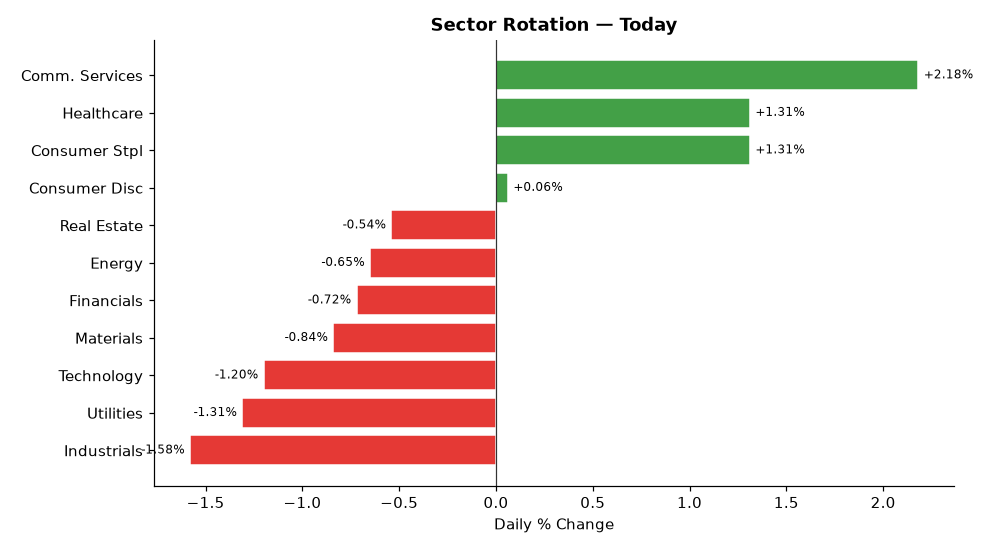
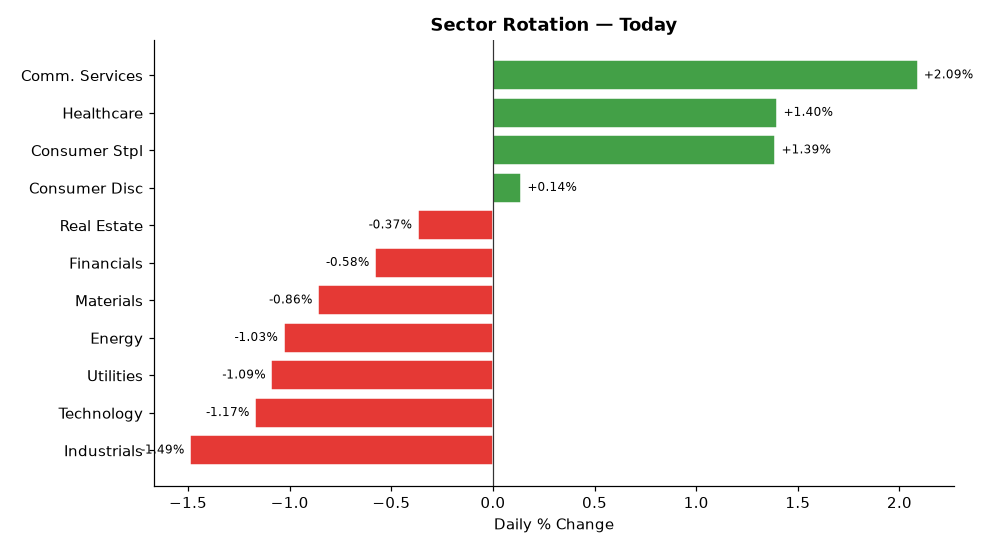
deploy: b7fadf5b06deb90e7ebb92f278722414bdd9750d

diff --git a/index.html b/index.html
@@ -4,7 +4,7 @@
   <meta charset="UTF-8">
   <meta name="viewport" content="width=device-width,initial-scale=1">
   <meta http-equiv="Cache-Control" content="no-cache,no-store,must-revalidate">
-  <title>Stock Breakout Screener — 2026-09-14 18:19</title>
+  <title>Stock Breakout Screener — 2026-09-14 18:46</title>
   <style>
     *{box-sizing:border-box;margin:0;padding:0}
     body{font-family:'Segoe UI',Arial,sans-serif;background:#f0f2f5;
@@ -34,7 +34,7 @@
 
 <div class="hdr">
   <h1>📈 Stock Breakout Screener</h1>
-  <p>Updated: 2026-09-14 18:19 UTC &nbsp;·&nbsp; Phase: Regular Market Hours &nbsp;·&nbsp;
+  <p>Updated: 2026-09-14 18:46 UTC &nbsp;·&nbsp; Phase: Regular Market Hours &nbsp;·&nbsp;
      129 stocks screened &nbsp;·&nbsp; Top 5 by conviction score</p>
 </div>
 
@@ -69,7 +69,7 @@
             </span>
           </div>
           <ul style="margin:0;padding-left:18px;font-size:13px;
-                     color:#333;line-height:1.8"><li style="margin:5px 0"><span style="background:#ffebee;color:#b71c1c;padding:2px 7px;border-radius:4px;font-size:11px;">❌</span> Volume: <b>0.3× average</b> — Above-average activity</li><li style="margin:5px 0"><span style="background:#e8f5e9;color:#2e7d32;padding:2px 7px;border-radius:4px;font-size:11px;">✅</span> Candle: close <b>$181.01</b> vs open <b>$170.78</b> (+6.0%) — regular market close</li><li style="margin:5px 0"><span style="background:#e8f5e9;color:#2e7d32;padding:2px 7px;border-radius:4px;font-size:11px;">✅</span> 200-Day MA: price <b>$181.01</b> vs MA <b>$172.97</b> — <b>✅ Above</b> long-term trend</li><li style="margin:5px 0"><span style="background:#e8f5e9;color:#2e7d32;padding:2px 7px;border-radius:4px;font-size:11px;">✅</span> Inst. ownership: <b>83.1%</b> · MFI: <b>76.5</b> · Market cap: <b>$193.4B</b></li><li style="margin:5px 0"><span style="background:#e8f5e9;color:#2e7d32;padding:2px 7px;border-radius:4px;font-size:11px;">✅</span> Last similar breakout: <b>May 07, 2026</b> → <b>+5.4%</b> over 10 trading days</li></ul>
+                     color:#333;line-height:1.8"><li style="margin:5px 0"><span style="background:#ffebee;color:#b71c1c;padding:2px 7px;border-radius:4px;font-size:11px;">❌</span> Volume: <b>0.4× average</b> — Above-average activity</li><li style="margin:5px 0"><span style="background:#e8f5e9;color:#2e7d32;padding:2px 7px;border-radius:4px;font-size:11px;">✅</span> Candle: close <b>$181.38</b> vs open <b>$170.78</b> (+6.2%) — regular market close</li><li style="margin:5px 0"><span style="background:#e8f5e9;color:#2e7d32;padding:2px 7px;border-radius:4px;font-size:11px;">✅</span> 200-Day MA: price <b>$181.38</b> vs MA <b>$172.97</b> — <b>✅ Above</b> long-term trend</li><li style="margin:5px 0"><span style="background:#e8f5e9;color:#2e7d32;padding:2px 7px;border-radius:4px;font-size:11px;">✅</span> Inst. ownership: <b>83.1%</b> · MFI: <b>76.2</b> · Market cap: <b>$193.7B</b></li><li style="margin:5px 0"><span style="background:#e8f5e9;color:#2e7d32;padding:2px 7px;border-radius:4px;font-size:11px;">✅</span> Last similar breakout: <b>May 07, 2026</b> → <b>+5.4%</b> over 10 trading days</li></ul>
         </div>
         <div style="background:#fff;border:1px solid #ddd;border-radius:10px;
                     padding:16px 20px;margin-bottom:12px;
@@ -86,7 +86,7 @@
             </span>
           </div>
           <ul style="margin:0;padding-left:18px;font-size:13px;
-                     color:#333;line-height:1.8"><li style="margin:5px 0"><span style="background:#ffebee;color:#b71c1c;padding:2px 7px;border-radius:4px;font-size:11px;">❌</span> Volume: <b>0.7× average</b> — Above-average activity</li><li style="margin:5px 0"><span style="background:#ffebee;color:#b71c1c;padding:2px 7px;border-radius:4px;font-size:11px;">❌</span> Candle: close <b>$665.47</b> vs open <b>$657.62</b> (+1.2%) — regular market close</li><li style="margin:5px 0"><span style="background:#e8f5e9;color:#2e7d32;padding:2px 7px;border-radius:4px;font-size:11px;">✅</span> 200-Day MA: price <b>$665.47</b> vs MA <b>$605.07</b> — <b>✅ Above</b> long-term trend</li><li style="margin:5px 0"><span style="background:#e8f5e9;color:#2e7d32;padding:2px 7px;border-radius:4px;font-size:11px;">✅</span> Inst. ownership: <b>79.0%</b> · MFI: <b>75.1</b> · Market cap: <b>$1695.4B</b></li></ul>
+                     color:#333;line-height:1.8"><li style="margin:5px 0"><span style="background:#ffebee;color:#b71c1c;padding:2px 7px;border-radius:4px;font-size:11px;">❌</span> Volume: <b>0.8× average</b> — Above-average activity</li><li style="margin:5px 0"><span style="background:#ffebee;color:#b71c1c;padding:2px 7px;border-radius:4px;font-size:11px;">❌</span> Candle: close <b>$666.14</b> vs open <b>$657.62</b> (+1.3%) — regular market close</li><li style="margin:5px 0"><span style="background:#e8f5e9;color:#2e7d32;padding:2px 7px;border-radius:4px;font-size:11px;">✅</span> 200-Day MA: price <b>$666.14</b> vs MA <b>$605.08</b> — <b>✅ Above</b> long-term trend</li><li style="margin:5px 0"><span style="background:#e8f5e9;color:#2e7d32;padding:2px 7px;border-radius:4px;font-size:11px;">✅</span> Inst. ownership: <b>79.0%</b> · MFI: <b>75.2</b> · Market cap: <b>$1696.8B</b></li></ul>
         </div>
         <div style="background:#fff;border:1px solid #ddd;border-radius:10px;
                     padding:16px 20px;margin-bottom:12px;
@@ -103,7 +103,7 @@
             </span>
           </div>
           <ul style="margin:0;padding-left:18px;font-size:13px;
-                     color:#333;line-height:1.8"><li style="margin:5px 0"><span style="background:#ffebee;color:#b71c1c;padding:2px 7px;border-radius:4px;font-size:11px;">❌</span> Volume: <b>0.3× average</b> — Above-average activity</li><li style="margin:5px 0"><span style="background:#ffebee;color:#b71c1c;padding:2px 7px;border-radius:4px;font-size:11px;">❌</span> Candle: close <b>$51.38</b> vs open <b>$50.94</b> (+0.9%) — regular market close</li><li style="margin:5px 0"><span style="background:#e8f5e9;color:#2e7d32;padding:2px 7px;border-radius:4px;font-size:11px;">✅</span> 200-Day MA: price <b>$51.38</b> vs MA <b>$46.64</b> — <b>✅ Above</b> long-term trend</li><li style="margin:5px 0"><span style="background:#e8f5e9;color:#2e7d32;padding:2px 7px;border-radius:4px;font-size:11px;">✅</span> Inst. ownership: <b>71.2%</b> · MFI: <b>64.9</b> · Market cap: <b>$213.5B</b></li></ul>
+                     color:#333;line-height:1.8"><li style="margin:5px 0"><span style="background:#ffebee;color:#b71c1c;padding:2px 7px;border-radius:4px;font-size:11px;">❌</span> Volume: <b>0.3× average</b> — Above-average activity</li><li style="margin:5px 0"><span style="background:#ffebee;color:#b71c1c;padding:2px 7px;border-radius:4px;font-size:11px;">❌</span> Candle: close <b>$51.40</b> vs open <b>$50.94</b> (+0.9%) — regular market close</li><li style="margin:5px 0"><span style="background:#e8f5e9;color:#2e7d32;padding:2px 7px;border-radius:4px;font-size:11px;">✅</span> 200-Day MA: price <b>$51.40</b> vs MA <b>$46.64</b> — <b>✅ Above</b> long-term trend</li><li style="margin:5px 0"><span style="background:#e8f5e9;color:#2e7d32;padding:2px 7px;border-radius:4px;font-size:11px;">✅</span> Inst. ownership: <b>71.2%</b> · MFI: <b>65.0</b> · Market cap: <b>$213.5B</b></li></ul>
         </div>
         <div style="background:#fff;border:1px solid #ddd;border-radius:10px;
                     padding:16px 20px;margin-bottom:12px;
@@ -120,7 +120,7 @@
             </span>
           </div>
           <ul style="margin:0;padding-left:18px;font-size:13px;
-                     color:#333;line-height:1.8"><li style="margin:5px 0"><span style="background:#ffebee;color:#b71c1c;padding:2px 7px;border-radius:4px;font-size:11px;">❌</span> Volume: <b>0.3× average</b> — Above-average activity</li><li style="margin:5px 0"><span style="background:#ffebee;color:#b71c1c;padding:2px 7px;border-radius:4px;font-size:11px;">❌</span> Candle: close <b>$26.50</b> vs open <b>$26.38</b> (+0.4%) — regular market close</li><li style="margin:5px 0"><span style="background:#e8f5e9;color:#2e7d32;padding:2px 7px;border-radius:4px;font-size:11px;">✅</span> 200-Day MA: price <b>$26.50</b> vs MA <b>$24.51</b> — <b>✅ Above</b> long-term trend</li><li style="margin:5px 0"><span style="background:#e8f5e9;color:#2e7d32;padding:2px 7px;border-radius:4px;font-size:11px;">✅</span> Inst. ownership: <b>68.4%</b> · MFI: <b>61.3</b> · Market cap: <b>$181.6B</b></li></ul>
+                     color:#333;line-height:1.8"><li style="margin:5px 0"><span style="background:#ffebee;color:#b71c1c;padding:2px 7px;border-radius:4px;font-size:11px;">❌</span> Volume: <b>0.4× average</b> — Above-average activity</li><li style="margin:5px 0"><span style="background:#ffebee;color:#b71c1c;padding:2px 7px;border-radius:4px;font-size:11px;">❌</span> Candle: close <b>$26.51</b> vs open <b>$26.38</b> (+0.5%) — regular market close</li><li style="margin:5px 0"><span style="background:#e8f5e9;color:#2e7d32;padding:2px 7px;border-radius:4px;font-size:11px;">✅</span> 200-Day MA: price <b>$26.51</b> vs MA <b>$24.51</b> — <b>✅ Above</b> long-term trend</li><li style="margin:5px 0"><span style="background:#e8f5e9;color:#2e7d32;padding:2px 7px;border-radius:4px;font-size:11px;">✅</span> Inst. ownership: <b>68.4%</b> · MFI: <b>61.4</b> · Market cap: <b>$181.6B</b></li></ul>
         </div>
         <div style="background:#fff;border:1px solid #ddd;border-radius:10px;
                     padding:16px 20px;margin-bottom:12px;
@@ -137,7 +137,7 @@
             </span>
           </div>
           <ul style="margin:0;padding-left:18px;font-size:13px;
-                     color:#333;line-height:1.8"><li style="margin:5px 0"><span style="background:#ffebee;color:#b71c1c;padding:2px 7px;border-radius:4px;font-size:11px;">❌</span> Volume: <b>0.5× average</b> — Above-average activity</li><li style="margin:5px 0"><span style="background:#ffebee;color:#b71c1c;padding:2px 7px;border-radius:4px;font-size:11px;">❌</span> Candle: close <b>$334.21</b> vs open <b>$334.83</b> (-0.2%) — regular market close</li><li style="margin:5px 0"><span style="background:#e8f5e9;color:#2e7d32;padding:2px 7px;border-radius:4px;font-size:11px;">✅</span> 200-Day MA: price <b>$334.21</b> vs MA <b>$295.54</b> — <b>✅ Above</b> long-term trend</li><li style="margin:5px 0"><span style="background:#e8f5e9;color:#2e7d32;padding:2px 7px;border-radius:4px;font-size:11px;">✅</span> Inst. ownership: <b>66.3%</b> · MFI: <b>64.7</b> · Market cap: <b>$4877.3B</b></li><li style="margin:5px 0"><span style="background:#e8f5e9;color:#2e7d32;padding:2px 7px;border-radius:4px;font-size:11px;">✅</span> Last similar breakout: <b>Jun 26, 2026</b> → <b>+11.8%</b> over 10 trading days</li></ul>
+                     color:#333;line-height:1.8"><li style="margin:5px 0"><span style="background:#ffebee;color:#b71c1c;padding:2px 7px;border-radius:4px;font-size:11px;">❌</span> Volume: <b>0.5× average</b> — Above-average activity</li><li style="margin:5px 0"><span style="background:#ffebee;color:#b71c1c;padding:2px 7px;border-radius:4px;font-size:11px;">❌</span> Candle: close <b>$334.50</b> vs open <b>$334.83</b> (-0.1%) — regular market close</li><li style="margin:5px 0"><span style="background:#e8f5e9;color:#2e7d32;padding:2px 7px;border-radius:4px;font-size:11px;">✅</span> 200-Day MA: price <b>$334.50</b> vs MA <b>$295.55</b> — <b>✅ Above</b> long-term trend</li><li style="margin:5px 0"><span style="background:#e8f5e9;color:#2e7d32;padding:2px 7px;border-radius:4px;font-size:11px;">✅</span> Inst. ownership: <b>66.3%</b> · MFI: <b>64.8</b> · Market cap: <b>$4882.4B</b></li><li style="margin:5px 0"><span style="background:#e8f5e9;color:#2e7d32;padding:2px 7px;border-radius:4px;font-size:11px;">✅</span> Last similar breakout: <b>Jun 26, 2026</b> → <b>+11.8%</b> over 10 trading days</li></ul>
         </div>
 
 
@@ -169,17 +169,17 @@
         <tr>
           <td style="font-weight:700;text-align:left;padding-left:10px">
             🟢 QCOM</td>
-          <td style="background:#ffcdd2">0.3×</td>
-          <td style="background:#c8e6c9">+6.0%</td>
+          <td style="background:#ffcdd2">0.4×</td>
+          <td style="background:#c8e6c9">+6.2%</td>
           <td style="background:#c8e6c9">
             ▲ Above</td>
           <td style="background:#c8e6c9">
             83.1%</td>
           <td style="background:#c8e6c9">
-            76.5</td>
+            76.2</td>
           <td style="background:#ffcdd2">Technology</td>
           <td style="background:#c8e6c9">
-            114.2%</td>
+            147.2%</td>
           <td style="background:#c8e6c9">
             +5.4%</td>
           <td style="font-weight:800;font-size:15px">12/17</td>
@@ -187,17 +187,17 @@
         <tr>
           <td style="font-weight:700;text-align:left;padding-left:10px">
             🟡 META</td>
-          <td style="background:#ffcdd2">0.7×</td>
-          <td style="background:#ffcdd2">+1.2%</td>
+          <td style="background:#ffcdd2">0.8×</td>
+          <td style="background:#ffcdd2">+1.3%</td>
           <td style="background:#c8e6c9">
             ▲ Above</td>
           <td style="background:#c8e6c9">
             79.0%</td>
           <td style="background:#c8e6c9">
-            75.1</td>
+            75.2</td>
           <td style="background:#c8e6c9">Comm. Services</td>
           <td style="background:#c8e6c9">
-            91.8%</td>
+            102.0%</td>
           <td style="background:#ffcdd2">
             N/A</td>
           <td style="font-weight:800;font-size:15px">11/17</td>
@@ -212,10 +212,10 @@
           <td style="background:#c8e6c9">
             71.2%</td>
           <td style="background:#c8e6c9">
-            64.9</td>
+            65.0</td>
           <td style="background:#c8e6c9">Comm. Services</td>
           <td style="background:#c8e6c9">
-            96.2%</td>
+            113.7%</td>
           <td style="background:#ffcdd2">
             N/A</td>
           <td style="font-weight:800;font-size:15px">11/17</td>
@@ -223,17 +223,17 @@
         <tr>
           <td style="font-weight:700;text-align:left;padding-left:10px">
             🟡 T</td>
-          <td style="background:#ffcdd2">0.3×</td>
-          <td style="background:#ffcdd2">+0.4%</td>
+          <td style="background:#ffcdd2">0.4×</td>
+          <td style="background:#ffcdd2">+0.5%</td>
           <td style="background:#c8e6c9">
             ▲ Above</td>
           <td style="background:#c8e6c9">
             68.4%</td>
           <td style="background:#c8e6c9">
-            61.3</td>
+            61.4</td>
           <td style="background:#c8e6c9">Comm. Services</td>
           <td style="background:#c8e6c9">
-            107.8%</td>
+            123.3%</td>
           <td style="background:#ffcdd2">
             N/A</td>
           <td style="font-weight:800;font-size:15px">11/17</td>
@@ -242,16 +242,16 @@
           <td style="font-weight:700;text-align:left;padding-left:10px">
             🟡 AAPL</td>
           <td style="background:#ffcdd2">0.5×</td>
-          <td style="background:#ffcdd2">-0.2%</td>
+          <td style="background:#ffcdd2">-0.1%</td>
           <td style="background:#c8e6c9">
             ▲ Above</td>
           <td style="background:#c8e6c9">
             66.3%</td>
           <td style="background:#c8e6c9">
-            64.7</td>
+            64.8</td>
           <td style="background:#ffcdd2">Technology</td>
           <td style="background:#c8e6c9">
-            77.1%</td>
+            98.9%</td>
           <td style="background:#c8e6c9">
             +11.8%</td>
           <td style="font-weight:800;font-size:15px">10/17</td>
@@ -278,57 +278,57 @@
         <tr>
           <td style="text-align:left;padding-left:10px;font-weight:600">
             #1 Comm. Services</td>
-          <td style="background:#e8f5e9;color:#2e7d32;font-weight:700">+2.18%</td>
+          <td style="background:#e8f5e9;color:#2e7d32;font-weight:700">+2.09%</td>
         </tr>
         <tr>
           <td style="text-align:left;padding-left:10px;font-weight:600">
             #2 Healthcare</td>
-          <td style="background:#e8f5e9;color:#2e7d32;font-weight:700">+1.31%</td>
+          <td style="background:#e8f5e9;color:#2e7d32;font-weight:700">+1.40%</td>
         </tr>
         <tr>
           <td style="text-align:left;padding-left:10px;font-weight:600">
             #3 Consumer Stpl</td>
-          <td style="background:#e8f5e9;color:#2e7d32;font-weight:700">+1.31%</td>
+          <td style="background:#e8f5e9;color:#2e7d32;font-weight:700">+1.39%</td>
         </tr>
         <tr>
           <td style="text-align:left;padding-left:10px;font-weight:600">
             #4 Consumer Disc</td>
-          <td style="background:#e8f5e9;color:#2e7d32;font-weight:700">+0.06%</td>
+          <td style="background:#e8f5e9;color:#2e7d32;font-weight:700">+0.14%</td>
         </tr>
         <tr>
           <td style="text-align:left;padding-left:10px;font-weight:600">
             #5 Real Estate</td>
-          <td style="background:#ffebee;color:#c62828;font-weight:700">-0.54%</td>
+          <td style="background:#ffebee;color:#c62828;font-weight:700">-0.37%</td>
         </tr>
         <tr>
           <td style="text-align:left;padding-left:10px;font-weight:600">
-            #6 Energy</td>
-          <td style="background:#ffebee;color:#c62828;font-weight:700">-0.65%</td>
+            #6 Financials</td>
+          <td style="background:#ffebee;color:#c62828;font-weight:700">-0.58%</td>
         </tr>
         <tr>
           <td style="text-align:left;padding-left:10px;font-weight:600">
-            #7 Financials</td>
-          <td style="background:#ffebee;color:#c62828;font-weight:700">-0.72%</td>
+            #7 Materials</td>
+          <td style="background:#ffebee;color:#c62828;font-weight:700">-0.86%</td>
         </tr>
         <tr>
           <td style="text-align:left;padding-left:10px;font-weight:600">
-            #8 Materials</td>
-          <td style="background:#ffebee;color:#c62828;font-weight:700">-0.84%</td>
+            #8 Energy</td>
+          <td style="background:#ffebee;color:#c62828;font-weight:700">-1.03%</td>
         </tr>
         <tr>
           <td style="text-align:left;padding-left:10px;font-weight:600">
-            #9 Technology</td>
-          <td style="background:#ffebee;color:#c62828;font-weight:700">-1.20%</td>
+            #9 Utilities</td>
+          <td style="background:#ffebee;color:#c62828;font-weight:700">-1.09%</td>
         </tr>
         <tr>
           <td style="text-align:left;padding-left:10px;font-weight:600">
-            #10 Utilities</td>
-          <td style="background:#ffebee;color:#c62828;font-weight:700">-1.31%</td>
+            #10 Technology</td>
+          <td style="background:#ffebee;color:#c62828;font-weight:700">-1.17%</td>
         </tr>
         <tr>
           <td style="text-align:left;padding-left:10px;font-weight:600">
             #11 Industrials</td>
-          <td style="background:#ffebee;color:#c62828;font-weight:700">-1.58%</td>
+          <td style="background:#ffebee;color:#c62828;font-weight:700">-1.49%</td>
         </tr>
     </table>
   </div>
@@ -367,7 +367,7 @@
         <li><b>Scoring weights:</b>
             Inst.Own(3) · Sector(3) · Volume(2) · Breakout(2) ·
             MA200(2) · MFI(2) · History(2) · IV(1) = 17pts max</li>
-        <li><b>Run time:</b> 2026-09-14 18:19 UTC — Market phase: Regular Market Hours</li>
+        <li><b>Run time:</b> 2026-09-14 18:46 UTC — Market phase: Regular Market Hours</li>
       </ul>
     </div>
 
